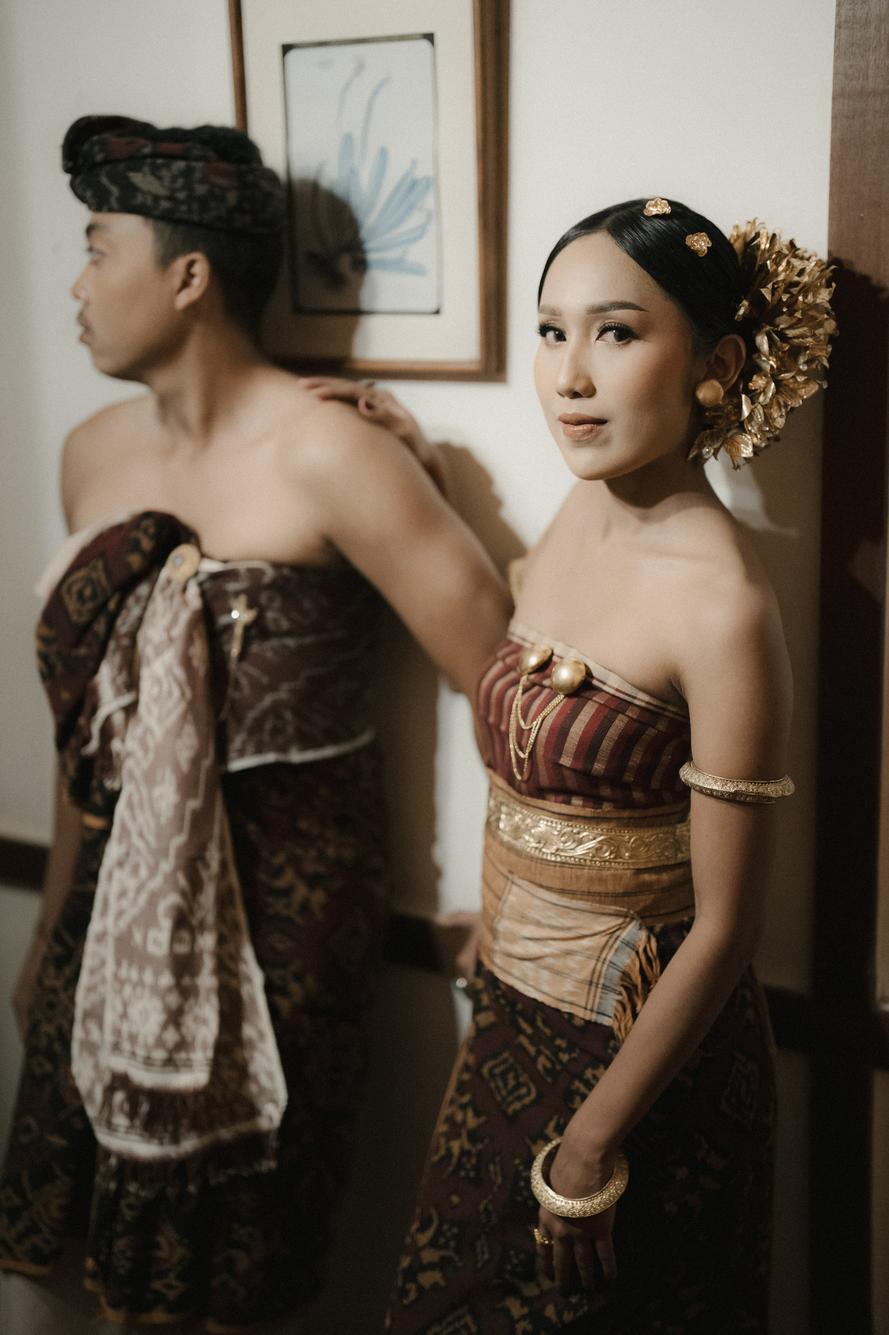
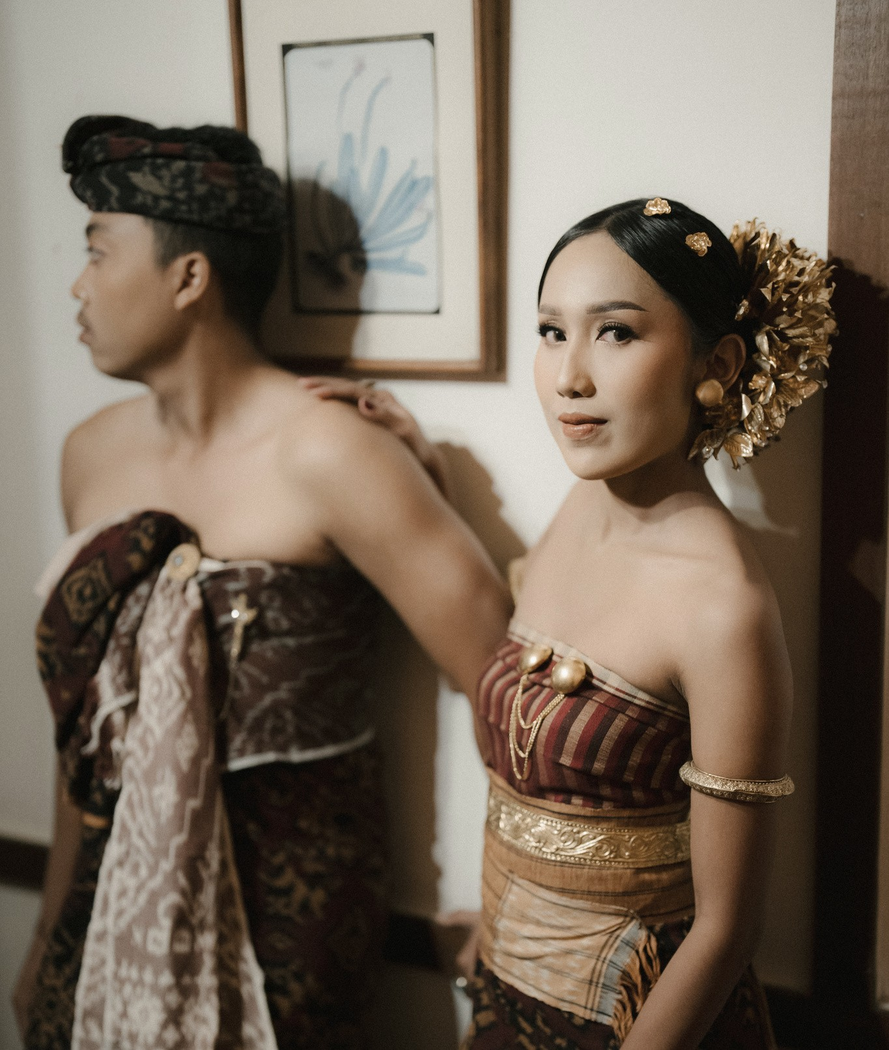
adjust galeri images sizes

diff --git a/coba/index.html b/coba/index.html
@@ -87,60 +87,60 @@
                 <p>ADITYA . KRISNA</p>
                 <p style="margin-bottom: 10rem;">ADITYA</p>
                 <p>KRISNA</p>
-                <p>ADITYA . KRISNA</p>
+                <p>ADITYA . KRISNA</p>  
                 <p style="margin-bottom: 10rem;">ADITYA</p>
                 <p>KRISNA</p>
                 <p>ADITYA . KRISNA</p>
                 <p style="margin-bottom: 10rem;">ADITYA</p>
             </div>
             <div class="galeri">
-                <div class="galeri-header">galeri header</div>
+                <div class="galeri-header"></div>
                 <div class="galeri-content">
                     <div class="content-1">
-                        <img src="assets/black.png" alt="">
-                        <img src="assets/black.png" alt="">
+                        <img src="assets/black.png" alt="" style="width: 40%;">
+                        <img src="assets/black.png" alt="" style="width: 40%;">
                     </div>
-                    <img src="assets/output_prefix-019.jpg" alt="">
+                    <img src="assets/output_prefix-019.jpg" alt="" style="width: 60%;">
                     <div class="content-2">
-                        <img src="assets/black.png" alt="">
-                        <img src="assets/black.png" alt="">
+                        <img src="assets/black.png" alt="" style="width: 40%;">
+                        <img src="assets/black.png" alt="" style="width: 40%;">
                     </div>
                     <img src="assets/output_prefix-021.jpg" alt="">
-                    <img src="assets/black.png" alt="">
-                    <img src="assets/black.png" alt="">
+                    <img src="assets/black.png" alt="" style="width: 40%;">
+                    <img src="assets/black.png" alt="" style="width: 40%;">
                     <div class="content-3">
-                        <img src="assets/black.png" alt="">
-                        <img src="assets/output_prefix-023.jpg" alt="">
+                        <img src="assets/black.png" alt="" style="width: 20%;">
+                        <img src="assets/output_prefix-000.jpg" alt="" style="width: 60%;">
                     </div>
                     <img src="assets/output_prefix-024.jpg" alt="">
                     <img src="assets/output_prefix-025.jpg" alt="">
                     <img src="assets/output_prefix-026.jpg" alt="">
                     <!-- more vertical margin here -->
-                    <img src="assets/output_prefix-027.jpg" alt=""> 
+                    <img src="assets/output_prefix-027.jpg" alt="" style="width: 50%; margin: 10rem;"> 
                     <!-- more vertical margin here -->
                     <img src="assets/output_prefix-032.jpg" alt="">
                     <img src="assets/black.png" alt="">
                     <div class="content-4">
-                        <img src="assets/black.png" alt="">
-                        <img src="assets/black.png" alt="">
+                        <img src="assets/black.png" alt="" style="width: 40%;">
+                        <img src="assets/black.png" alt="" style="width: 40%;">
                     </div>
                     <img src="assets/output_prefix-031.jpg" alt="">
-                    <img src="assets/output_prefix-033.jpg" alt="">
-                    <img src="assets/output_prefix-034.jpg" alt="">
+                    <img src="assets/output_prefix-033.jpg" alt="" style="width: 40%;">
+                    <img src="assets/output_prefix-034.jpg" alt="" style="width: 40%;">
                     <img src="assets/output_prefix-035.jpg" alt="">
                     <div class="content-5">
-                        <img src="assets/black.png" alt="">
-                        <img src="assets/black.png" alt="">
+                        <img src="assets/black.png" alt="" style="width: 40%;">
+                        <img src="assets/black.png" alt="" style="width: 40%;">
                     </div>
                     <div class="content-6">
-                        <img src="assets/black.png" alt="">
-                        <img src="assets/black.png" alt="">
+                        <img src="assets/black.png" alt="" style="width: 40%;">
+                        <img src="assets/black.png" alt="" style="width: 40%;">
                     </div>
                     <img src="assets/output_prefix-041.jpg" alt="">
                     <img src="assets/output_prefix-036.jpg" alt="">
                     <div class="content-7">
-                        <img src="assets/black.png" alt="">
-                        <img src="assets/black.png" alt="">
+                        <img src="assets/black.png" alt="" style="width: 40%;">
+                        <img src="assets/black.png" alt="" style="width: 40%;">
                     </div>
                     <img src="assets/output_prefix-044.jpg" alt="">
                     <div class="content-8">
@@ -149,14 +149,14 @@
                             <img src="assets/black.png" alt="">
                             <img src="assets/black.png" alt="">
                         </div>
-                        <img src="assets/black.png" alt="">
+                        <img src="assets/black.png" alt="" style="width: 40%;">
                     </div>
                     <img src="assets/output_prefix-046.jpg" alt="">
                     <img src="assets/output_prefix-047.jpg" alt="">
                     <img src="assets/output_prefix-051.jpg" alt="">
                     <div class="content-9">
-                        <img src="assets/black.png" alt="">
-                        <img src="assets/black.png" alt="">
+                        <img src="assets/black.png" alt="" style="width: 40%;">
+                        <img src="assets/black.png" alt="" style="width: 40%;">
                     </div>                    
                     <img src="assets/output_prefix-045.jpg" alt="">
                 </div>

diff --git a/coba/style.css b/coba/style.css
@@ -291,7 +291,7 @@ h1 { font-size: 2rem; font-style: normal; font-weight: normal;}     /* 32px */
 
 /* --------------------------Galeri Content-------------------------- */
 .galeri-content img{
-    width: 80%;
+    width: 75%;
 }
 
 .galeri-content{
@@ -307,6 +307,6 @@ h1 { font-size: 2rem; font-style: normal; font-weight: normal;}     /* 32px */
 .content-7, .content-8, .content-9 {
     display: flex;
     justify-content: space-around;
-    width: 80%;
+    width: 90%;
 }
 
